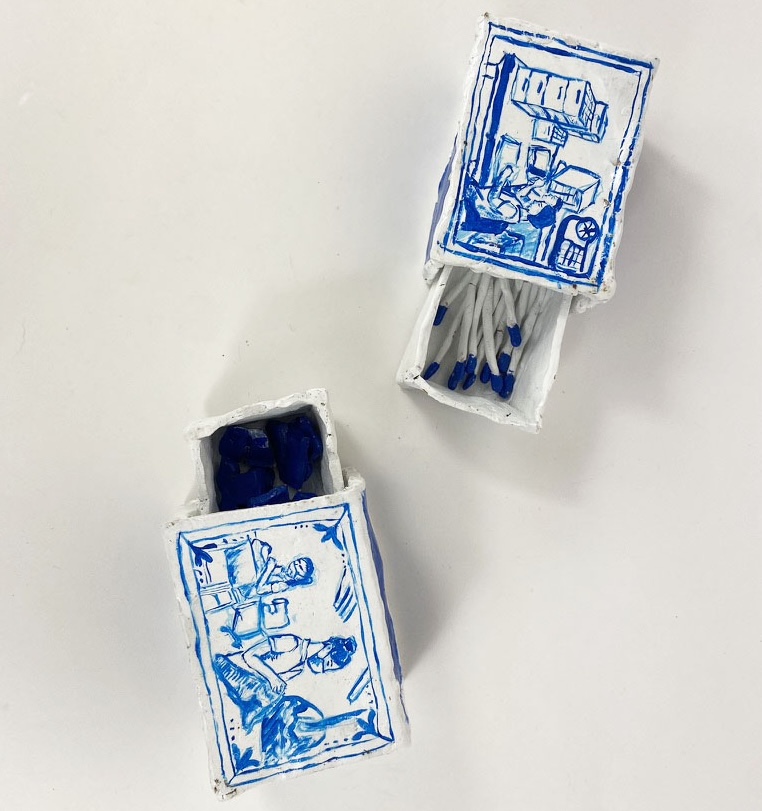
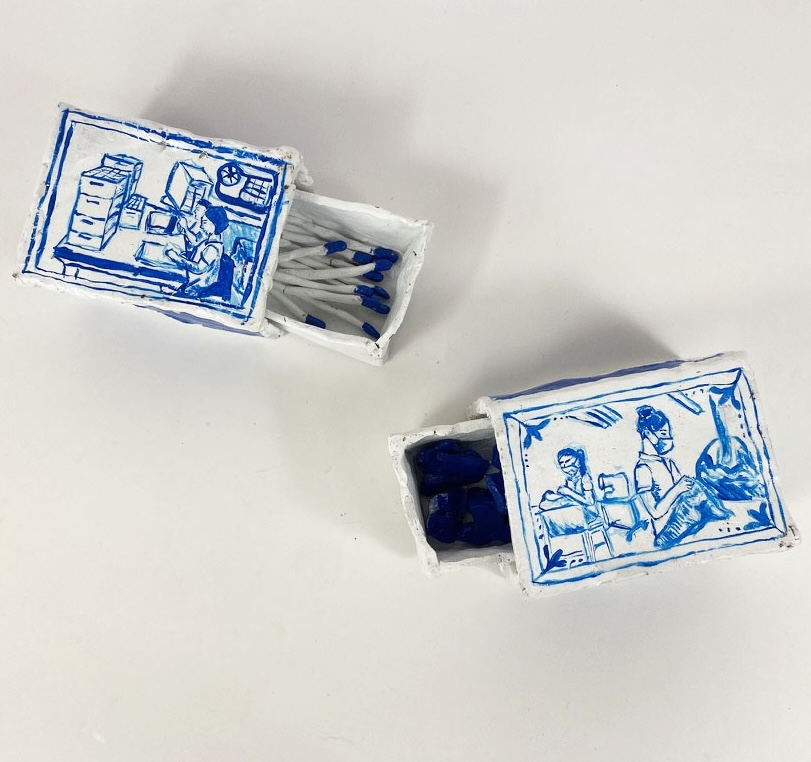
taille image changée

diff --git a/amisum.html b/amisum.html
@@ -5,6 +5,15 @@
 <meta name="viewport" content="width=device-width, initial-scale=1.0">
 <title>Amisum – Portfolio</title>
 <link rel="stylesheet" href="style.css">
+<meta charset="UTF-8">
+<meta name="viewport" content="width=device-width, initial-scale=1.0">
+<title>Portfolio</title>
+<link rel="stylesheet" href="style.css">
+<link rel="icon" type="image/png" href="favicon/favicon-96x96.png" sizes="96x96">
+<link rel="icon" type="image/svg+xml" href="favicon/favicon.svg">
+<link rel="shortcut icon" href="favicon/favicon.ico">
+<link rel="apple-touch-icon" sizes="180x180" href="favicon/apple-touch-icon.png">
+<link rel="manifest" href="favicon/site.webmanifest">
 </head>
 
 <body class="projet">

diff --git a/style.css b/style.css
@@ -73,7 +73,7 @@ main {
 display: grid;
 gap: 10px;
 padding: 10px;
-grid-template-columns: repeat(4, 1fr);
+/* grid-template-columns: repeat(4, 1fr); */
 }
 .item-grid {
 display: grid;
@@ -82,7 +82,6 @@ overflow: hidden;
 border-radius: 15px;
 background: #eee;
 color: #fff;
-text-decoration: none;z
 }
 .item-grid img,
 .item-grid h2 {
@@ -105,9 +104,10 @@ text-align: center;
 background: #0000008a;
 opacity: 0;
 transition: .4s;
+}
+
 .item-grid:hover h2 {
 opacity: 1;
-}
 }
 
 .projet-page {

diff --git a/index.html b/index.html
@@ -50,7 +50,7 @@
     <h2>Peinture</h2>
     </a>
     <a class="item-grid" href="allumettes.html">
-    <img src="image/image/prepa3/allumette3.jpeg" alt="Brulée par le travail">
+    <img src="image/image/prepa3/allumette3 copie.jpeg" alt="Brulée par le travail">
     <h2>Brulée par le travail</h2>
     </a>
 </main>
